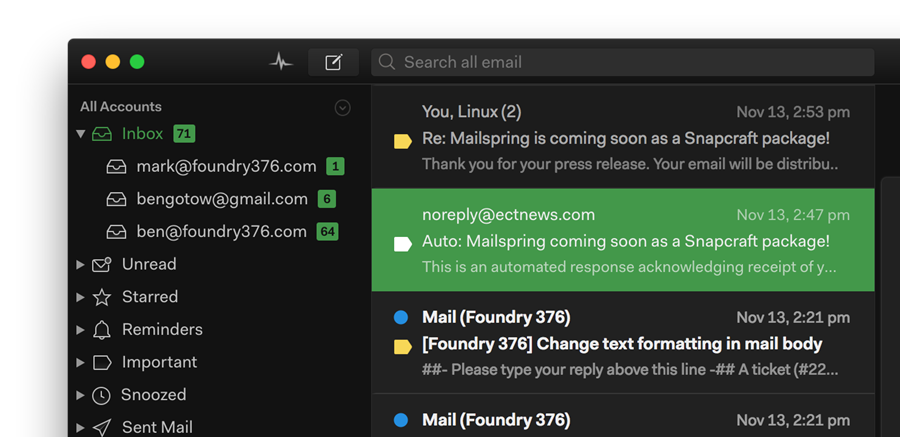
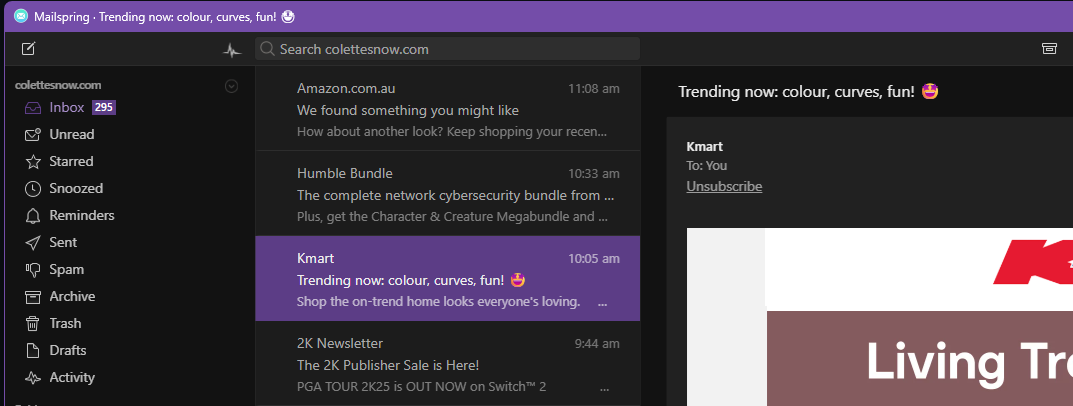
Change accent colour from green to purple

diff --git a/styles/ui-variables.less b/styles/ui-variables.less
@@ -12,7 +12,7 @@ https://github.com/Foundry376/Mailspring/blob/master/app/static/style/base/ui-va
 @gray-lighter: darken(@gray-base, 92.5%);
 @white: #0a0a0a;
 
-@accent-primary: #58b660;
+@accent-primary: #744da9;
 @accent-primary-dark: darken(@accent-primary, 10%);
 
 @background-primary: #212121;

diff --git a/styles/index.less b/styles/index.less
@@ -50,3 +50,6 @@ img.content-light {
 .thread-list .list-item:not(.unread):not(.selected):not(.focused) {
   color: #aaa;
 }
+
+.outline-view .alt-count { color: #ffffff; }
+.outline-view .item.selected { color: lighten(@accent-primary, 20%); }
